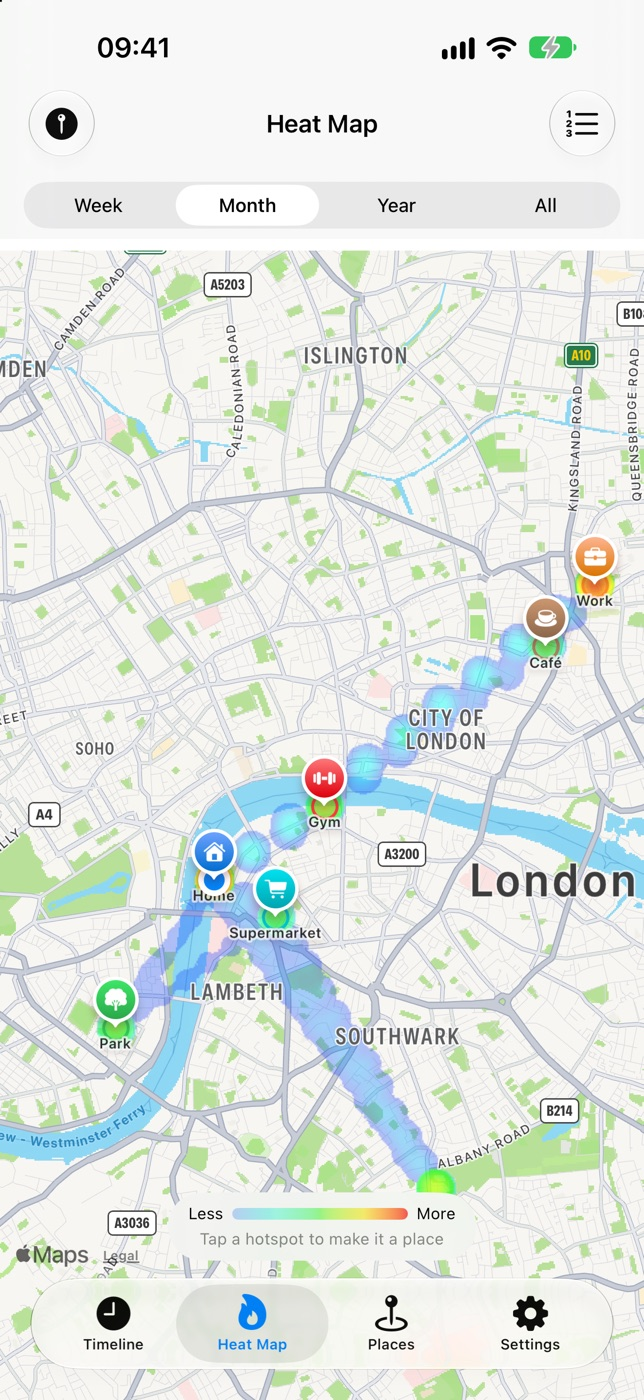
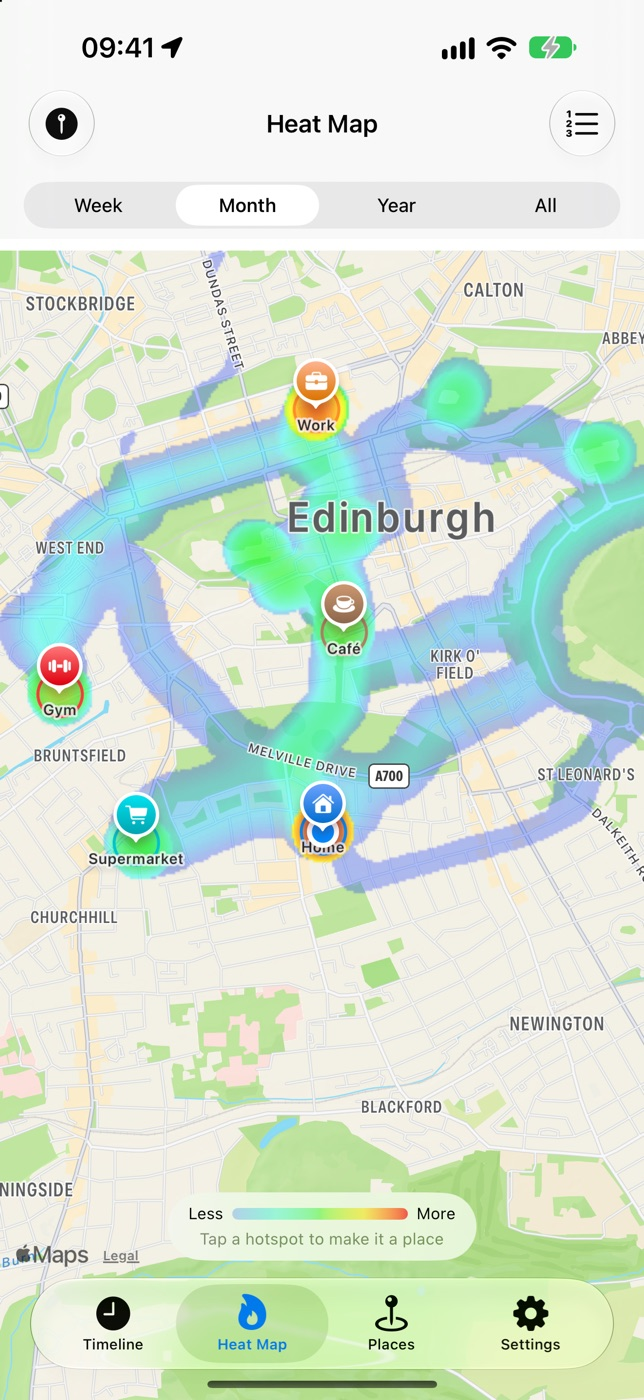
Edinburgh screenshots with real walking routes

diff --git a/index.html b/index.html
@@ -14,7 +14,7 @@
 <meta property="og:image" content="https://ubifui.app/assets/share-preview.jpg">
 <meta property="og:image:width" content="1200">
 <meta property="og:image:height" content="630">
-<meta property="og:image:alt" content="Ubi Fui's Timeline showing a day of stops and trips around London">
+<meta property="og:image:alt" content="Ubi Fui's Timeline showing a walking tour of Edinburgh's Old Town">
 <meta property="og:locale" content="en_GB">
 <meta name="twitter:card" content="summary_large_image">
 <meta name="theme-color" content="#f3f5fb" media="(prefers-color-scheme: light)">
@@ -167,7 +167,7 @@
       </span>
       <p class="badge-note">For iPhone, with a companion app for Apple Watch.</p>
     </div>
-    <div class="phone"><img src="assets/screen-timeline.jpg" alt="Ubi Fui's Timeline: a day of stops at home, a café and work, with the trips between them on a map of London" width="644" height="1400"></div>
+    <div class="phone"><img src="assets/screen-timeline.jpg" alt="Ubi Fui's Timeline: a Saturday walking tour of Edinburgh's Old Town, from the Castle to Holyrood, with the route on a map" width="644" height="1400"></div>
   </div>
 </div>
 
@@ -184,7 +184,7 @@
         <p>Stay somewhere for five minutes and it becomes a stop on your Timeline, with when you arrived and how long you stayed.</p>
       </div>
       <div class="step">
-        <div class="phone"><img src="assets/screen-heatmap.jpg" alt="A heat map of a month around London, with named places pinned" width="644" height="1400" loading="lazy"></div>
+        <div class="phone"><img src="assets/screen-heatmap.jpg" alt="A heat map of a month around Edinburgh, with named places pinned" width="644" height="1400" loading="lazy"></div>
         <h3>Your time, mapped</h3>
         <p>The heat map shows where you really spend your time. Tap a hotspot to turn it into a place.</p>
       </div>
@@ -239,7 +239,7 @@
 
 <section class="trips">
   <div class="wrap">
-    <div class="phone"><img src="assets/screen-trip.jpg" alt="A trip from Home to Café, set to Bus, with its route on a map" width="644" height="1400" loading="lazy"></div>
+    <div class="phone"><img src="assets/screen-trip.jpg" alt="A walk from home to Edinburgh Castle, with its route on a map" width="644" height="1400" loading="lazy"></div>
     <div>
       <p class="eyebrow">Trips</p>
       <h2>Know how you got there.</h2>
